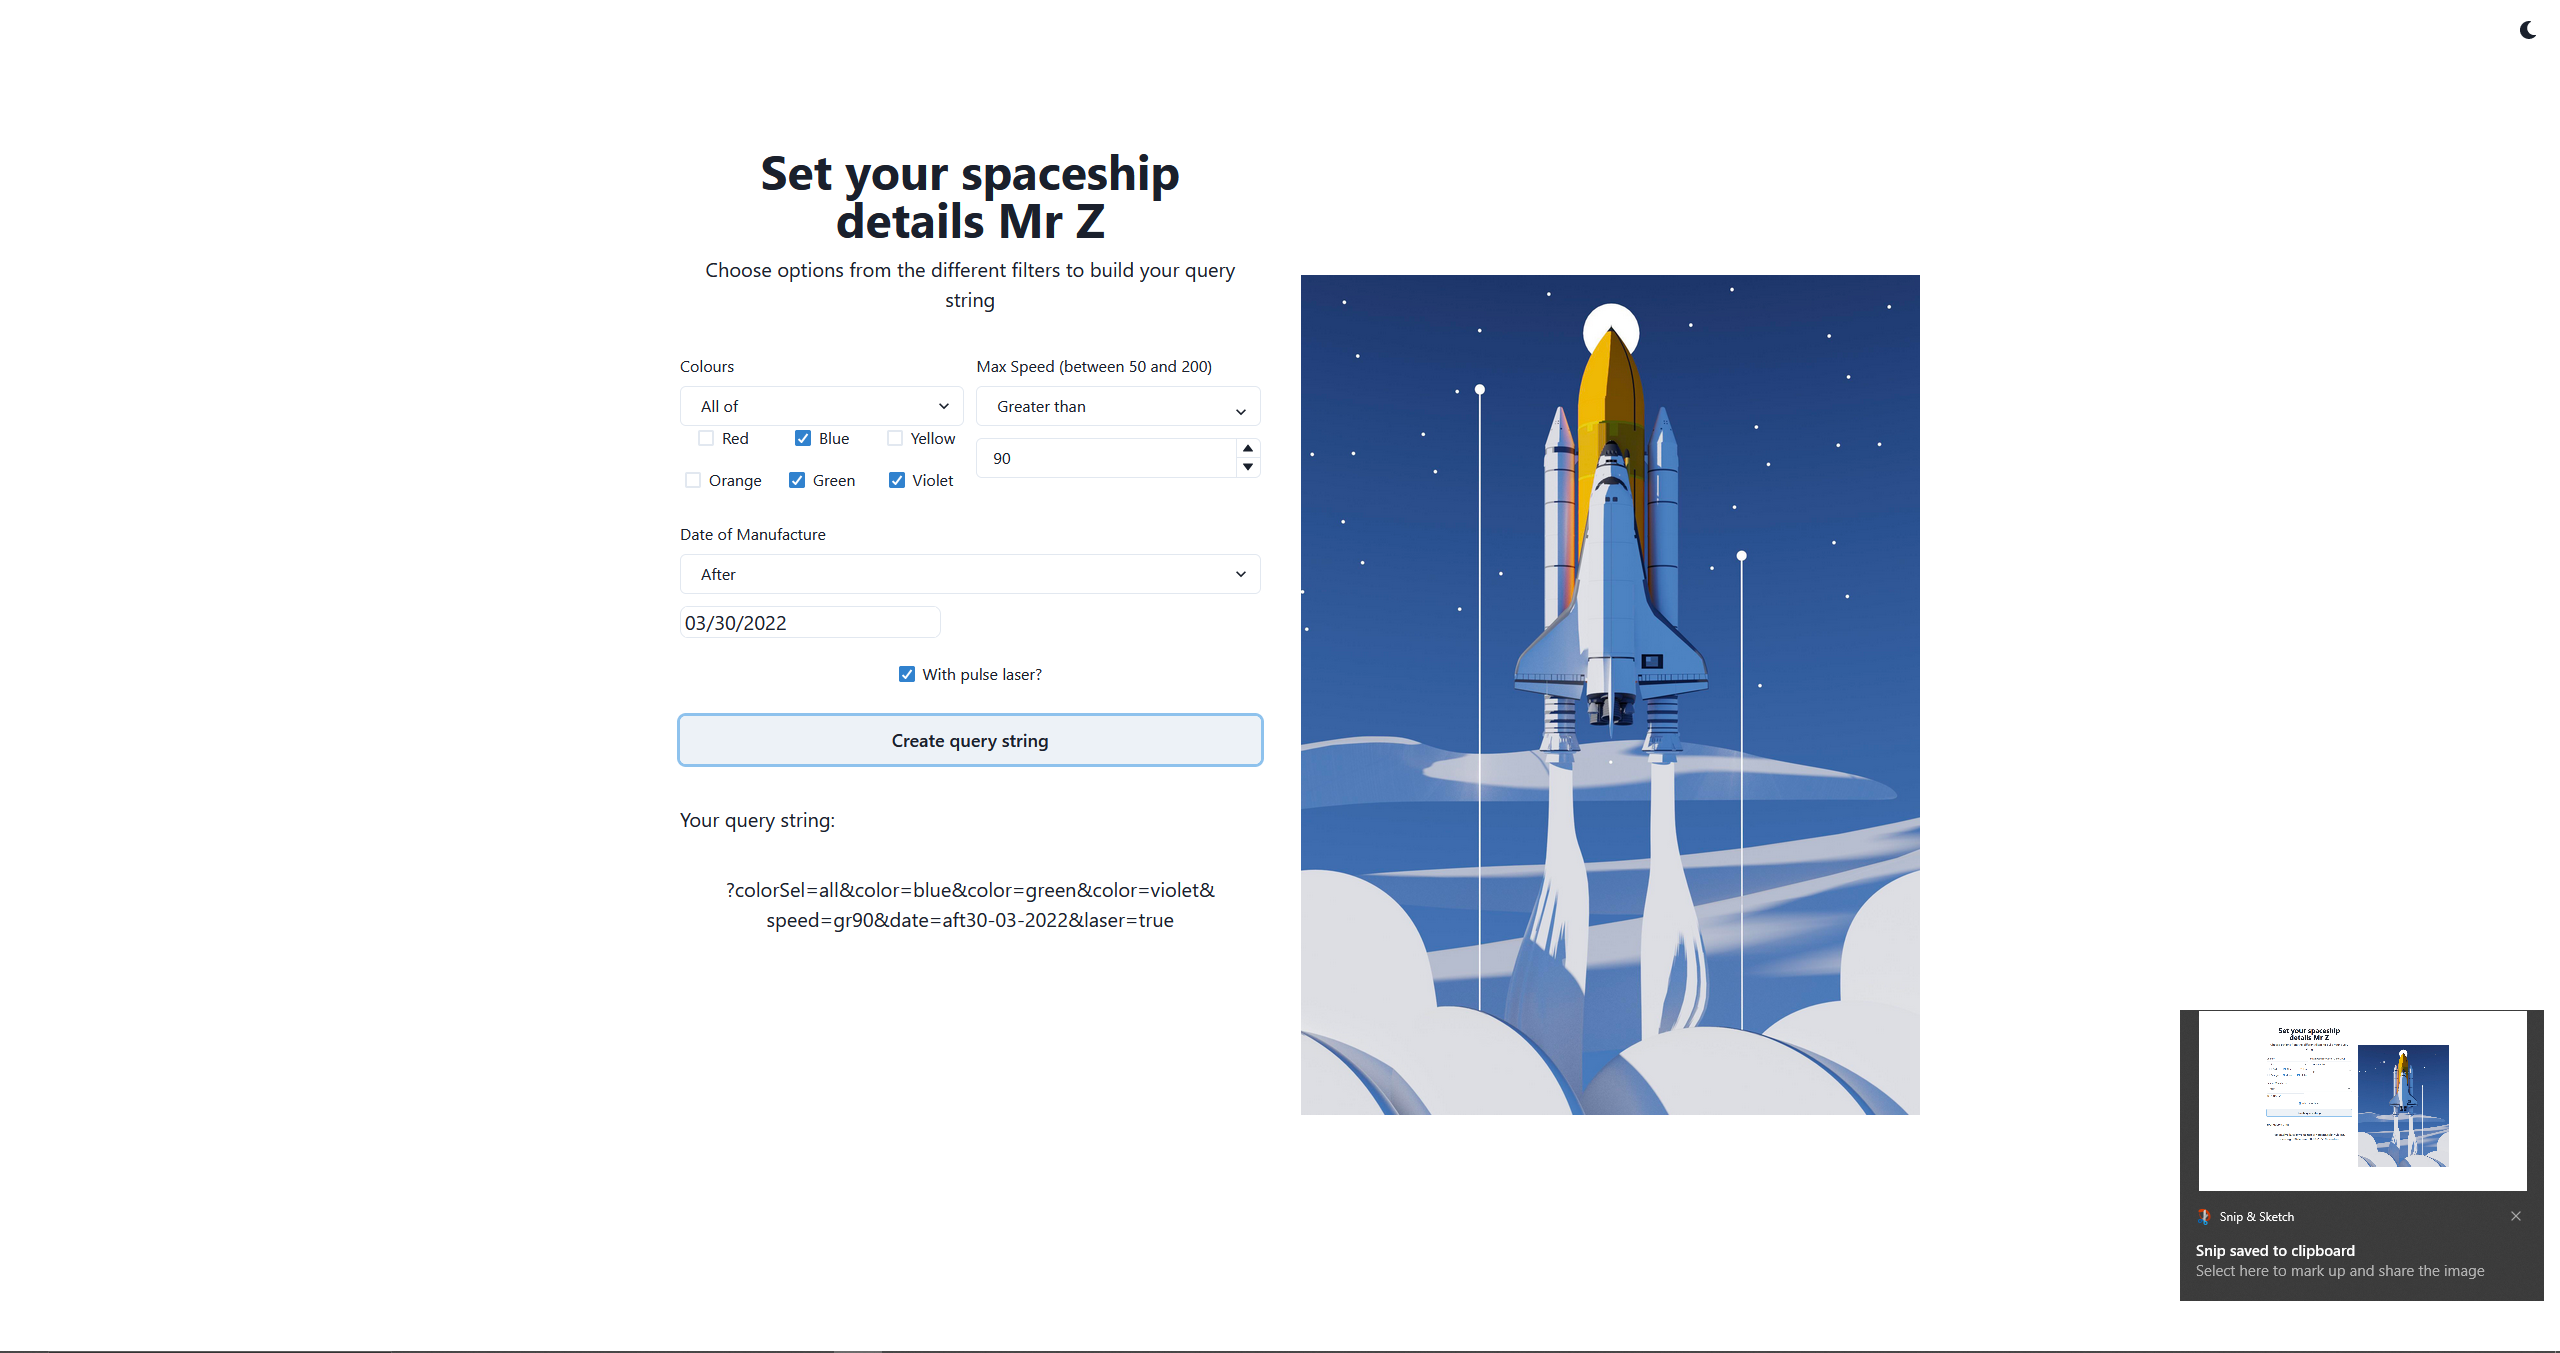
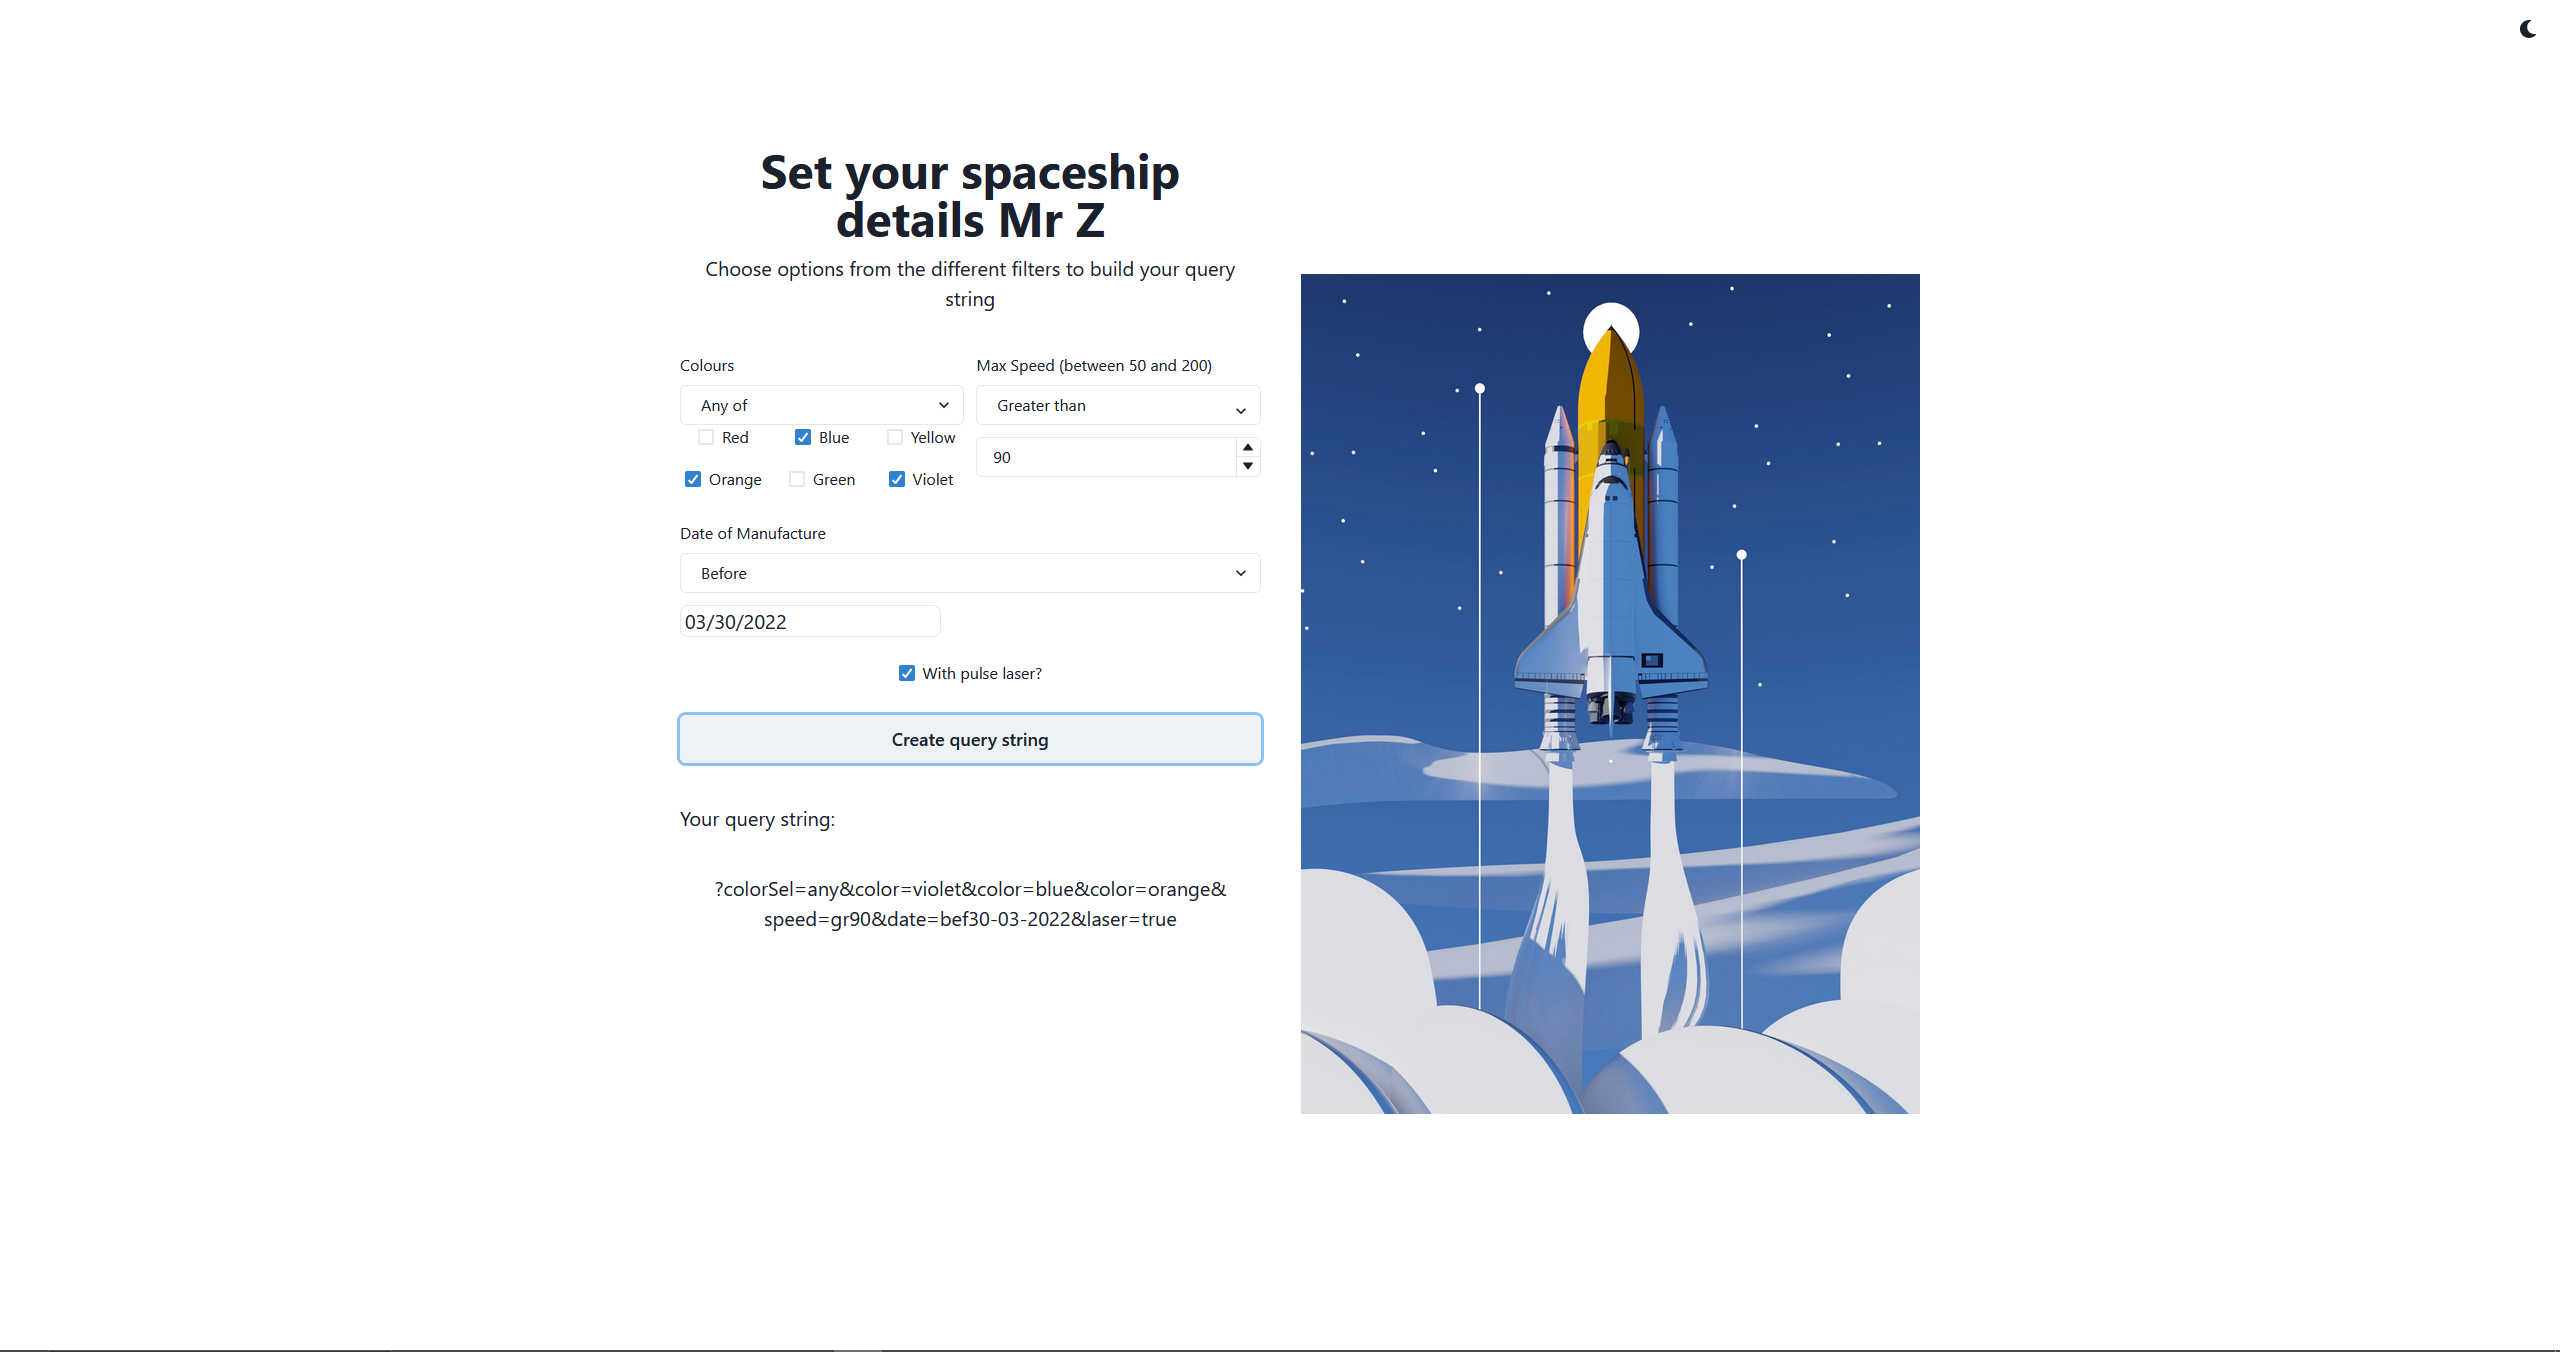
Fixed date bug and replaced readme image

diff --git a/src/components/ManufDatePicker.js b/src/components/ManufDatePicker.js
@@ -8,7 +8,7 @@ function ManufDatePicker({ setDateSelector, manufDate, setManufDate }) {
   return (
     <FormControl>
       <FormLabel>Date of Manufacture</FormLabel>
-      <Select onChange={e => setDateSelector(e)}>
+      <Select onChange={e => setDateSelector(e.target.value)}>
         <option value="aft">After</option>
         <option value="bef">Before</option>
         <option value="on">On</option>
